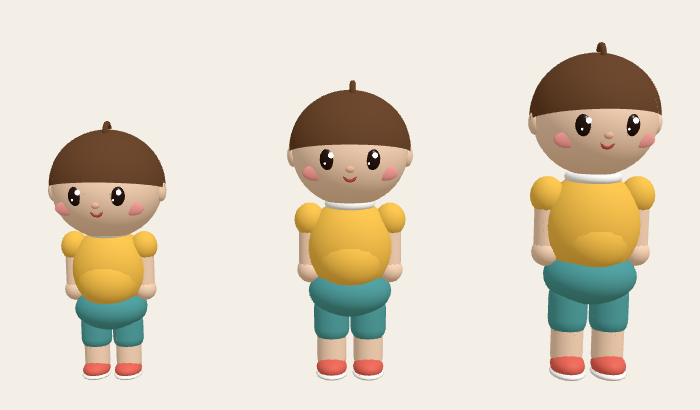
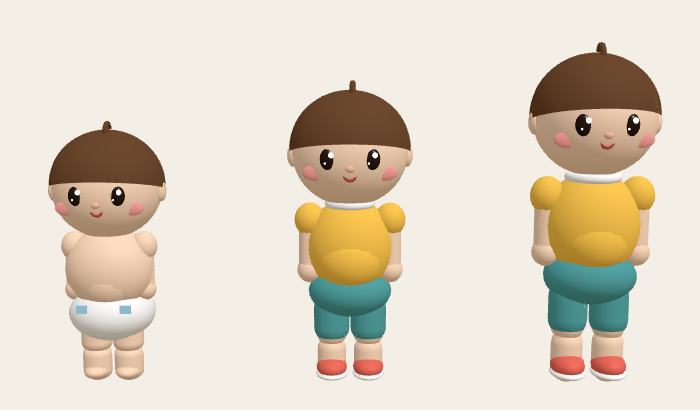
README: close-up hero image, baby image, voices of three parents, other Claude roles (judge, researcher, Chrome tester); stale numbers fixed
Claude-Session: https://claude.ai/code/session_015uAZ8gNvvEK7mszzsgPW2u

Changed region(s): [[0.09, 0.5561, 0.24, 0.9366], [0.78, 0.7902, 0.9, 0.8488], [0.45, 0.8195, 0.57, 0.8488]]

diff --git a/README.md b/README.md
@@ -11,7 +11,7 @@
 - 提出用の概要（英語・日本語）: [docs/submission.md](docs/submission.md)
 - Built with Claude Japan 2026 — テーマ1「あなたにしかない深さを。」
 
-![1歳3か月のあーちゃんが踏み台35cmの上でスイッチに手を伸ばす](docs/images/help-switch-15.png)
+![2歳6か月のあーちゃんが踏み台15cmに乗ってスイッチに手を伸ばす。右の欄に「大人がひと工夫すると、自分でできる」](docs/images/hero-switch-30.png)
 
 > English summary: "あーちゃんが やる!" ("Let me do it!", in a toddler's voice) / Growing Reach computes what a 15–60-month-old child can reach and climb at home, using only values from Japanese public surveys and published studies, and shows in 3D which small changes by an adult (a step stool of a given height, a lower shelf, moving a cup closer to the edge) let the child do things by themselves. No AI or API is used inside the app; no input leaves the browser.
 
@@ -30,6 +30,8 @@
 - **月齢スライダー（9〜60か月）**: 一般的な子（身長の中央値）の体で、家の中のやりたいことを分けます。右の欄はアイコンのタイルで、色と短いバッジ（✓自分で／🪜踏み台15cm／🤗抱っこで）でひと目でわかります。
 - **年ごろの遊びと生活（現場の判断）**: 作者が挙げた年ごろごとの遊びと生活（いないいないばあ、手遊び、片付けのルール、しりとり、鬼ごっこ…）をアイコンで出し、やりたいことも年ごろで入れ替わります。
 - **つかまり立ちのころ（9か月〜1歳4か月）**: はいはいで動き、家具につかまって立って手を伸ばします。はいはい期に登れる高さの実測がないので、登る計算はしません。
+
+![つかまり立ちのころのあーちゃん：四つ這いのはいはいと、おむつ姿](docs/images/achan-baby.png)
   - 自分でできる
   - この助けがあればできる（踏み台 ○cm／段を下げる／縁に寄せる）
   - 大人と一緒に（大人が抱っこして）
@@ -70,6 +72,15 @@
 - 国土技術政策総合研究所（2025）『子育てに配慮した住宅と居住環境に関するガイドライン（改訂版）』
 - 国土交通省「高齢者が居住する住宅の設計に係る指針」、TOTO 工事寸法図ほか（設備の高さ）
 
+## 使った人の声
+
+作者の友人3人（子育て中・子育てを終えた人）に見てもらいました。
+
+- 赤ちゃんのころから、どんなことができるようになっていくかが見られる。
+- 自分の子どもが歩いたときを思い出す。かわいい。
+- 初めて子どもを持ったとき、家の中での子どもの育ちのイメージができていい。
+- 根拠が示されていて安心。
+
 ## 入力とプライバシー
 
 - 入力は月齢のスライダーだけです。名前・身長・体重・自由記入・発達検査の結果は聞きません（以前あった「うちの子に合わせる」の身長入力は、月齢だけで足りるという作者の判断で外しました）。
@@ -87,7 +98,7 @@
 ### 2. 決まりを仕組みで守らせる（hooks と検証）
 
 - `scripts/check-ledger.mjs`（`npm run check:ledger`）：すべての値に4区分がある／仮値以外は登録された出典を指す／二次引用・未確認の値が根拠ありになっていない／台帳の式の係数（1.59・0.9842 など15個）がコードに数字で書かれていない、を確かめます。
-- `.claude/settings.json` の hooks：Claude Code が `git commit` しようとすると、先に `npm test`（265件）と台帳の検証が走り、通らなければ**コミットが止まって理由が Claude に返ります**。台帳やコードを書き換えた直後にも台帳を検証します。
+- `.claude/settings.json` の hooks：Claude Code が `git commit` しようとすると、先に `npm test`（270件）と台帳の検証が走り、通らなければ**コミットが止まって理由が Claude に返ります**。台帳やコードを書き換えた直後にも台帳を検証します。
 
 ```
 コミットを止めました（.claude/hooks/pre-commit-check.mjs）。通らなかった確認：npm test・台帳の検証
@@ -112,6 +123,14 @@
 - **Claude Code に任せたこと**: 原典の読み込みと台帳、計算（`sim/`）と表示（`render/`）、テスト、仮値の候補と理由、描画しての確認、不具合の原因調査。
 - **作者（KO）が決めたこと**: 現場の判断（2歳半までは踏み台に乗せず抱っこで、その後は付き添いから）、作品の向き、原典が食い違うときに採る値、仮値の選択、月齢の範囲、入力項目とプライバシー、画面に何を出し何を出さないか、あーちゃんという名前。
 
+### 5. Claude に別の役を任せる
+
+作っている Claude とは別の Claude に、作業の経緯を知らせずに役を任せ、作り手の思い込みを外から崩しました。
+
+- **審査役**：審査基準（デモ・インパクト・Claude の使い方・深さ）で辛口に採点させた。「作者にしかない深さが画面に見えない」「1歳3か月に踏み台35cm には専門家から異論が出る」という指摘から、作者の現場の判断（2歳半までは抱っこ、手洗いは2歳から）を台帳に入れる、という一番大きな改善が生まれた。
+- **調査役**：9か月まで広げるために、乳児の身長・運動発達・はいはいの速さ・つかまり立ちで届く高さを原典で当たらせた。見つかったもの（こども家庭庁 2024 表2、消費者安全調査委員会 2025 表4）だけを根拠にし、見つからなかったもの（はいはいの速さ、はいはい期に登れる高さ）は仮値・計算しない、と分けた。
+- **ブラウザでの動作確認**：Claude in Chrome に、月齢ごとの点検（不自然な助けがないか）・部屋・助けの場面を実際に操作させる（プロンプトは `docs/browser-test-prompt.md`）。
+
 ## 動かし方
 
 ```sh
@@ -131,13 +150,15 @@ bash scripts/render-check.sh  # 3D を描いて .cache/shots/ に保存（Chrome
 | `data/room_layout.json` | 家の配置（設計者が置いた仮値。高さは台帳を指す） |
 | `sim/` | 計算（体・届く・登れる・環境調整・助けの場面・家の中を歩く動き）。DOM も Three.js も使わない |
 | `render/` | 表示（右の欄、3D の家・子ども・物の形） |
-| `test/` | `node --test` のテスト（265件） |
+| `test/` | `node --test` のテスト（270件） |
 | `scripts/` | 台帳の検証、3D を描いて確かめるスクリプトと図形の確認ページ |
 | `.claude/` | Claude Code の hooks（コミット前の確認）と skills（手順書） |
 | `docs/dev-log.md` | 開発ログ（AI に任せたことと人が判断したこと） |
 | `assets/icons/` | Lucide のアイコン（ライセンスは同じフォルダの LICENSE） |
 
 ## 限界
+
+- 画面から外した試作の跡（100人の試行・危険な物の判定と再生・家具の編集）は、コード（`sim/`・`render/`）とテストに残っています。主役を自立支援に変えたときに隠したもので、今の画面からは使っていません。
 
 - 部屋の配置と家具の位置は仮値です。家の実際の寸法を入れる機能はありません。
 - 立って手が届く高さの式は、元データの年齢範囲を原典で確認できていません。

diff --git a/docs/dev-log.md b/docs/dev-log.md
@@ -296,3 +296,8 @@
 
 - 私（KO）の判断：月齢ごとに「大人がひと工夫すると自分でできる」「大人と一緒に」をテストして、不自然なところを探す。１歳９ヶ月で洗面所抱っこはあり得るが、２歳過ぎたらそろそろステップで立ち上がる練習をしてほしい。玄関の「框」という表現はわかりにくい（マンションでは框がないことも）。3D で玄関の框がドア側についているように見える（KO、2026-11-05）。
 - Claude Code に任せたこと：(1) 9か月〜5歳の14の月齢 × やりたいこと全部の状態を一覧にして点検した。見つかったもの：手洗い（2歳0〜3か月が抱っこ）、電気（同じく2歳0〜3か月が抱っこ）、調理台（3歳から踏み台・そのうち一人で）。手洗いは KO の判断どおり、台帳の現場の判断に `step_from_by_goal`（wash: 24）を足し、2歳から「踏み台（最初は付き添って）」にした。電気と調理台は KO に確認中。テスト1件（手洗いは21か月で抱っこ、24か月で踏み台。電気は24か月でまだ抱っこ）。(2) 玄関：段差（上がり框）を外側の縁から縁の内側40cmへ移し（配置 y 0→40、奥行き 40→20、靴箱にかからない幅 180→140）、ドアの側を土間（40cm）にした。名前は「玄関の段差」「玄関の段差を上がる」（短い名前「段差」）。render-check に玄関を押した2歳の画面を足して確かめた。
+
+## 2026-11-05 README を今の作品に合わせる・使った人の声
+
+- 私（KO）の判断：友人3人に聞いた声：赤ちゃん時代からどんな事ができるようになっていくか見られる、自分の子どもが歩いた時を思い出す・かわいい、初めての子どもを持った時に子どもの屋内での育ちのイメージができていい、根拠が示されていて安心（KO、2026-11-05）。
+- Claude Code に任せたこと：README の一番上の画像を、2歳6か月で踏み台15cm に乗ってスイッチへ手を伸ばす寄った画面に差し替えた（ヘッドレスではカメラが寄りきらないため、2800×1720 で描いて切り抜いた）。赤ちゃん（はいはい・おむつ）の画像を足した。「使った人の声」の節、「Claude に別の役を任せる」（審査役・調査役・Chrome での動作確認）の節、限界に「画面から外した試作の跡が残っている」を足した。テストの件数（270）と CLAUDE.md の冒頭（0歳9か月〜）を直した。

diff --git a/CLAUDE.md b/CLAUDE.md
@@ -1,6 +1,6 @@
 # あーちゃんが やる！ — Growing Reach
 
-1歳3か月〜5歳の子の体（身長・立って届く高さ・登れる高さ・肘の高さ）を台帳の値から計算し、家の中で「自分でできる／この助けがあればできる（踏み台○cm・段を下げる・縁に寄せる）／まだ」を出す。3D の家であーちゃん（台帳の中央値の子）が助けを使うところを見せる。9か月〜1歳4か月はつかまり立ちのころ（はいはい・登らない）。
+0歳9か月〜5歳の子の体（身長・立って届く高さ・登れる高さ・肘の高さ）を台帳の値から計算し、家の中で「自分でできる／この助けがあればできる（踏み台○cm・段を下げる・縁に寄せる）／まだ」を出す。3D の家であーちゃん（台帳の中央値の子）が助けを使うところを見せる。9か月〜1歳4か月はつかまり立ちのころ（はいはい・登らない）。
 GitHub Pages（main ブランチのルート）で動く静的サイト。対象はPCブラウザ（最小幅1280px）。
 
 ## 設計方針
